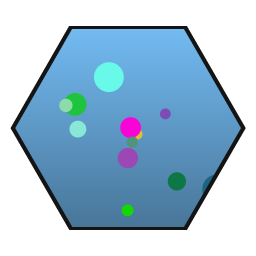
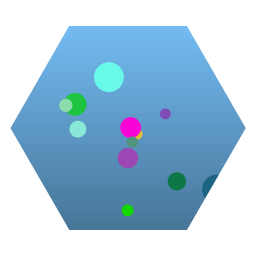
Feather blend mask and remove outlines from dummy objects
- Blur alpha (sigma 2px) before Laplacian pyramid blending so edge
  pixels mix with the background instead of being copied as-is
- Extract blend_object() and show alpha-only / blend / feathered
  blend side by side in the preview
- Regenerate dummy object PNGs without the dark outline

Changed region(s): [[0.0312, 0.0938, 0.9688, 0.9062]]

diff --git a/cv/test/problem_gen/preview.py b/cv/test/problem_gen/preview.py
@@ -3,7 +3,7 @@
     python -m cv.test.problem_gen.preview --out <폴더> --seeds 0 1 2
 
 seed마다 [왼쪽 | 오른쪽 | 오른쪽 + 정답 영역] 이미지와,
-블렌딩 전후 비교(물체 주변 확대) 이미지를 저장한다.
+블렌딩 방식별 비교(물체 주변 확대) 이미지를 저장한다.
 """
 import argparse
 from pathlib import Path
@@ -14,7 +14,6 @@ import numpy as np
 from cv.problem_gen import ProblemGenerator
 from cv.problem_gen import generator as G
 from cv.problem_gen.assets import list_assets, read_image, read_object
-from cv.problem_gen.blending import pyramid_blend
 from cv.problem_gen.compose import fit_background, place_object
 
 
@@ -31,18 +30,26 @@ def save_problem(gen, seed, out):
 
 
 def save_blend_comparison(asset_dir, seed, out):
-    """같은 배치에서 alpha로만 붙인 결과와 피라미드 블렌딩 결과를 확대해 나란히 저장한다."""
+    """같은 배치에서 [alpha로만 붙임 | 블렌딩(마스크 그대로) | 블렌딩(마스크 흐림)]을 확대해 나란히 저장한다."""
     rng = np.random.default_rng(seed)
     backgrounds, objects = list_assets(asset_dir)
     bg = fit_background(read_image(backgrounds[rng.integers(len(backgrounds))]), G.OUTPUT_SIZE)
     obj = read_object(objects[rng.integers(len(objects))])
     composite, alpha = place_object(bg, obj, rng, G.OBJECT_SCALE_RANGE, G.PLACE_MARGIN)
-    blended = pyramid_blend(composite, bg, alpha, G.BLEND_LEVELS)
+    panels = {
+        "alpha only": composite,
+        "blend": G.blend_object(composite, bg, alpha, feather_sigma=0),
+        f"blend + feather {G.BLEND_FEATHER_SIGMA:g}px": G.blend_object(composite, bg, alpha),
+    }
 
     x, y, w, h = cv2.boundingRect(np.where(alpha > 0.5, 255, 0).astype(np.uint8))
     pad = 20
     crop = (slice(max(0, y - pad), y + h + pad), slice(max(0, x - pad), x + w + pad))
-    zoom = [cv2.resize(img[crop], None, fx=3, fy=3, interpolation=cv2.INTER_NEAREST) for img in (composite, blended)]
+    zoom = []
+    for label, img in panels.items():
+        img = cv2.resize(img[crop], None, fx=3, fy=3, interpolation=cv2.INTER_NEAREST)
+        cv2.putText(img, label, (8, 24), cv2.FONT_HERSHEY_SIMPLEX, 0.7, (255, 255, 255), 2)
+        zoom.append(img)
     cv2.imwrite(str(out / f"blend_{seed:03d}.png"), np.hstack(zoom))
 
 

diff --git a/cv/problem_gen/generator.py b/cv/problem_gen/generator.py
@@ -17,6 +17,7 @@ PLACE_MARGIN = 0.14
 ANGLE_RANGE = (3.0, 6.0)            # 오른쪽 이미지 회전 각도(도), 부호는 랜덤
 EXTRA_SCALE_RANGE = (1.0, 1.05)     # 빈 모서리를 없애는 최소 배율에 추가로 곱하는 배율
 BLEND_LEVELS = 4                    # 피라미드 단계 상한 (작은 물체는 자동으로 줄임)
+BLEND_FEATHER_SIGMA = 2.0           # 블렌딩 마스크를 흐리는 정도(px). 0이면 alpha 그대로
 HIT_TOLERANCE_PX = 8                # 손끝 오차 허용: 판정할 때 정답 마스크를 넓히는 픽셀 수
 
 
@@ -36,6 +37,17 @@ def _hit(mask, point):
     x, y = _to_pixel(point)
     h, w = mask.shape
     return 0 <= x < w and 0 <= y < h and bool(mask[y, x] > 0)
+
+
+def blend_object(composite, bg, alpha, feather_sigma=BLEND_FEATHER_SIGMA):
+    """물체를 붙인 이미지를 배경과 라플라시안 피라미드로 섞는다."""
+    # 단계가 너무 많으면 작은 물체에 배경색이 번지므로 물체 크기에 맞춰 줄인다
+    _, _, ow, oh = cv2.boundingRect(np.where(alpha > 0.5, 255, 0).astype(np.uint8))
+    levels = max(1, min(BLEND_LEVELS, int(np.log2(max(2, min(ow, oh)) / 2))))
+    # alpha 그대로면 가장 세밀한 단계에서 경계가 그대로 복사되므로, 마스크를 흐려 경계 픽셀도 섞이게 한다
+    if feather_sigma > 0:
+        alpha = cv2.GaussianBlur(alpha, (0, 0), feather_sigma)
+    return pyramid_blend(composite, bg, alpha, levels)
 
 
 class ProblemGenerator:
@@ -104,10 +116,7 @@ class ProblemGenerator:
 
         composite, alpha = place_object(left, obj, rng, OBJECT_SCALE_RANGE, PLACE_MARGIN)
         mask_left = np.where(alpha > 0.5, 255, 0).astype(np.uint8)
-        # 단계가 너무 많으면 작은 물체에 배경색이 번지므로 물체 크기에 맞춰 줄인다
-        _, _, ow, oh = cv2.boundingRect(mask_left)
-        levels = max(1, min(BLEND_LEVELS, int(np.log2(max(2, min(ow, oh)) / 2))))
-        blended = pyramid_blend(composite, left, alpha, levels)
+        blended = blend_object(composite, left, alpha)
 
         M = random_affine(*OUTPUT_SIZE, rng, ANGLE_RANGE, EXTRA_SCALE_RANGE)
         right, mask = warp(blended, mask_left, M)
